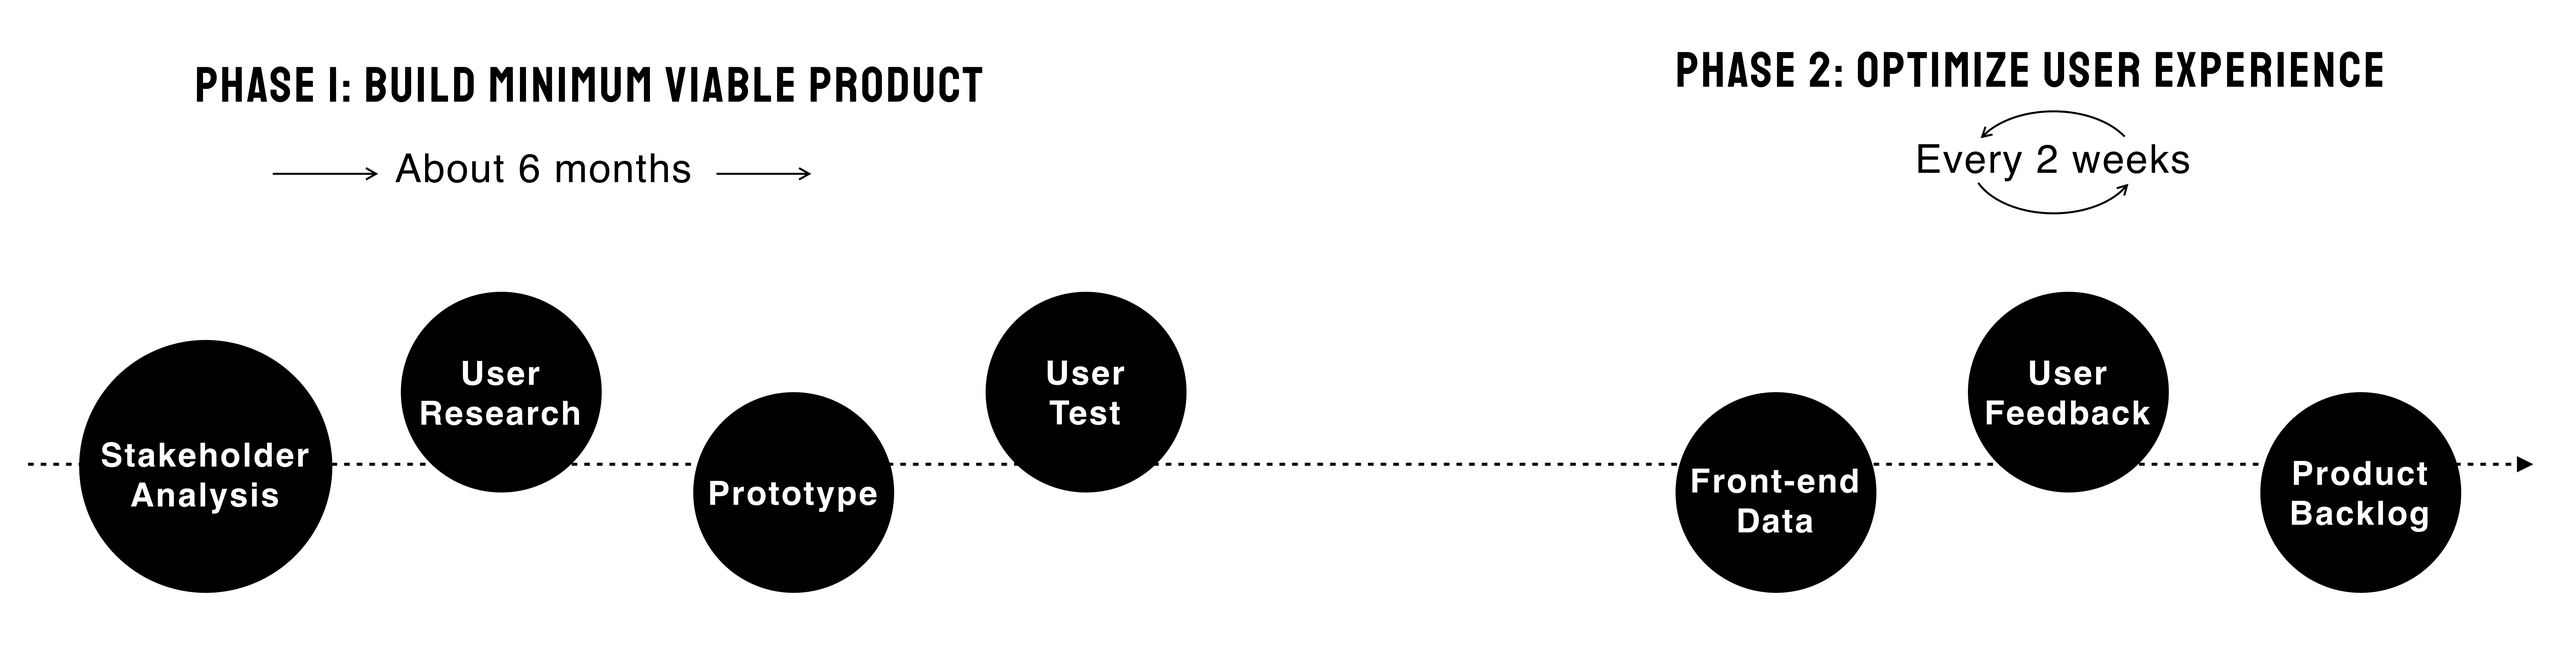
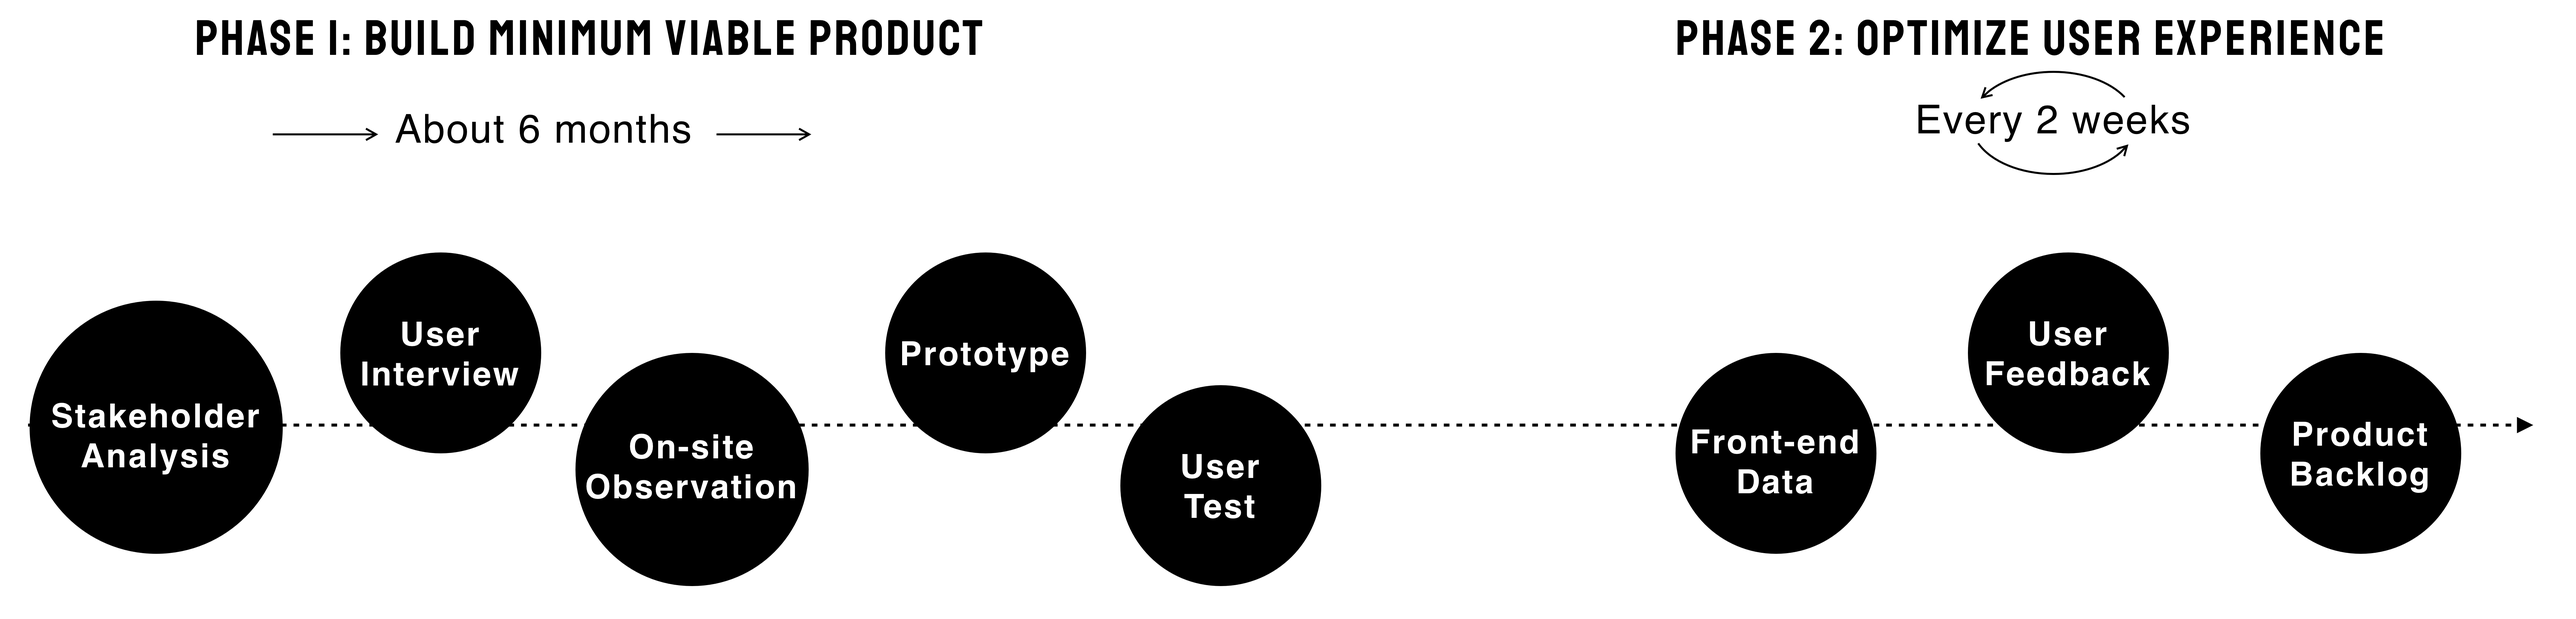
img

diff --git a/work/TAL.html b/work/TAL.html
@@ -133,18 +133,14 @@
                        3) Compare students’ learning competencies across time and region (Students could compare with others).
                        <br>
                        4) Provide follow-up learning strategies (Students could know how to be improved).
-                       </p>
-                       <p>
+                       <br>
                         The new requirements demanded highly on the data, which presented two new challenges.
                        </p>
                     </div>
-                    <div class="col-12 col-md-2" style="text-align: center">
-                        <img width="100%" src="images/TAL/img1.png">
-                     </div>
                 </div>
-                <div class = "row" style="margin-top: 80px; margin-bottom: 130px;">
+                <div class = "row" style="margin-top: 20px; margin-bottom: 120px;">
                    <div class="col-12 col-md-12">
-                        <img width="100%" src="images/TAL/challenge.png">
+                        <img width="90%" src="images/TAL/challenge.png">
                     </div>
                 </div>
             </div>
@@ -191,7 +187,30 @@
                 </div>
             </div>
         </div>
-    
+        
+        <div class="content_white">
+            <div class="container">
+                <div class="row">
+                   <div class="col-12 col-md-8">
+                        <h1>UX TIMELINE</h1> 
+                        <h2>Do what's right, the right way, at the right time</h2>
+                    </div> 
+                </div>
+            </div>
+            <div class="container">
+                <div class="row">
+                      <div class="col-12 col-md-10">
+                          <p>We had limited time for UX research & design, even though they are necessary for product decision-making. Therefore, we separated our UX timeline into two phases: <b>One for building the MVP</b>, where we spent 6 months doing the large-scale user researches, visiting schools across 7 cities in China, researching multiple roles including instructors, students, parents, and schools' directors. <b>One for making agile iterations</b>, where we have no time for large-scale user research in a 2-week scrum, but instead we make full use of user data and user feedback collected from the released products to make better design decisions.
+                          </p>
+                        <img width="100%" src="images/TAL/process.png"> 
+                    </div>
+                   <div class="col-12 col-md-2">
+                        <img width="100%" src="images/TAL/userresearch.png">
+                    </div>
+                </div>
+            </div>
+        </div>
+        
         <div class="content_white">
             <div class="container">
                 <div class="row">
@@ -205,7 +224,7 @@
                 <div class="row">
                     <div class="col-12 col-md-8">
                         <p>
-                            Even though the scenarios of an assessment are different —— some are taken online and some are taken at school —— the key process is kind of similar. To ensure that our ecosystem could be easily integrated into various business lines with different types of assessment, we extracted the most necessary user actions from 10+ assessment scenarios, and chuncked these actions into three parts with three design goals:
+                            Through the large-scale user researches conducted in the early stage, we found out that even though the scenarios of an assessment are different —— some are taken online and some are taken at school —— the key process is kind of similar. To ensure that our ecosystem could be easily integrated into various business lines with different types of assessment, we extracted the most necessary user actions from 10+ assessment scenarios, and chuncked these actions into three parts with three design goals:
                         </p>
                     </div>
                 </div>
@@ -227,29 +246,7 @@
             </div>
         </div>
         
-        <div class="content_white">
-            <div class="container">
-                <div class="row">
-                   <div class="col-12 col-md-8">
-                        <h1>UX TIMELINE</h1> 
-                        <h2>Do what's right, the right way, at the right time</h2>
-                    </div> 
-                </div>
-            </div>
-            <div class="container">
-                <div class="row">
-                      <div class="col-12 col-md-10">
-                          <p>We had limited time for UX research & design, even though they are necessary for product decision-making. Therefore, we separated our UX timeline into two phases: <b>One for building the MVP</b>, where we spent 6 months doing the large-scale user researches, visiting schools across 5 cities in China, interviewing multiple roles including instructors, students, parents, and schools' directors. <b>One for making agile iterations</b>, where we have no time for large-scale user research in a 2-week scrum, but instead we make full use of user data and user feedback collected from the released products to make better design decisions.
-                          </p>
-                    </div>
-                </div>
-                <div class="row">
-                    <div class="col-12 col-md-12">
-                        <img width="80%" src="images/TAL/process.png">
-                    </div>
-                </div>
-            </div>
-        </div>
+  
             
         
         <div class="content_grey">
